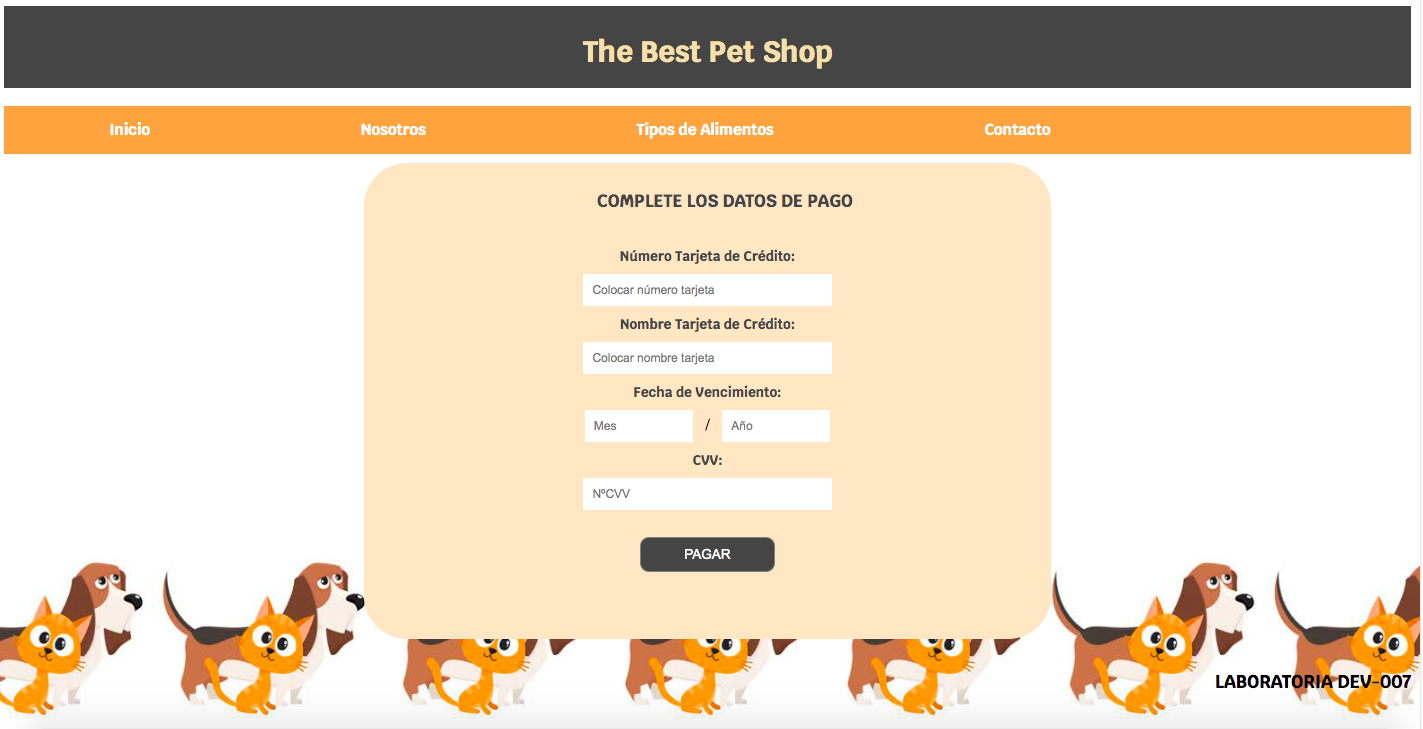
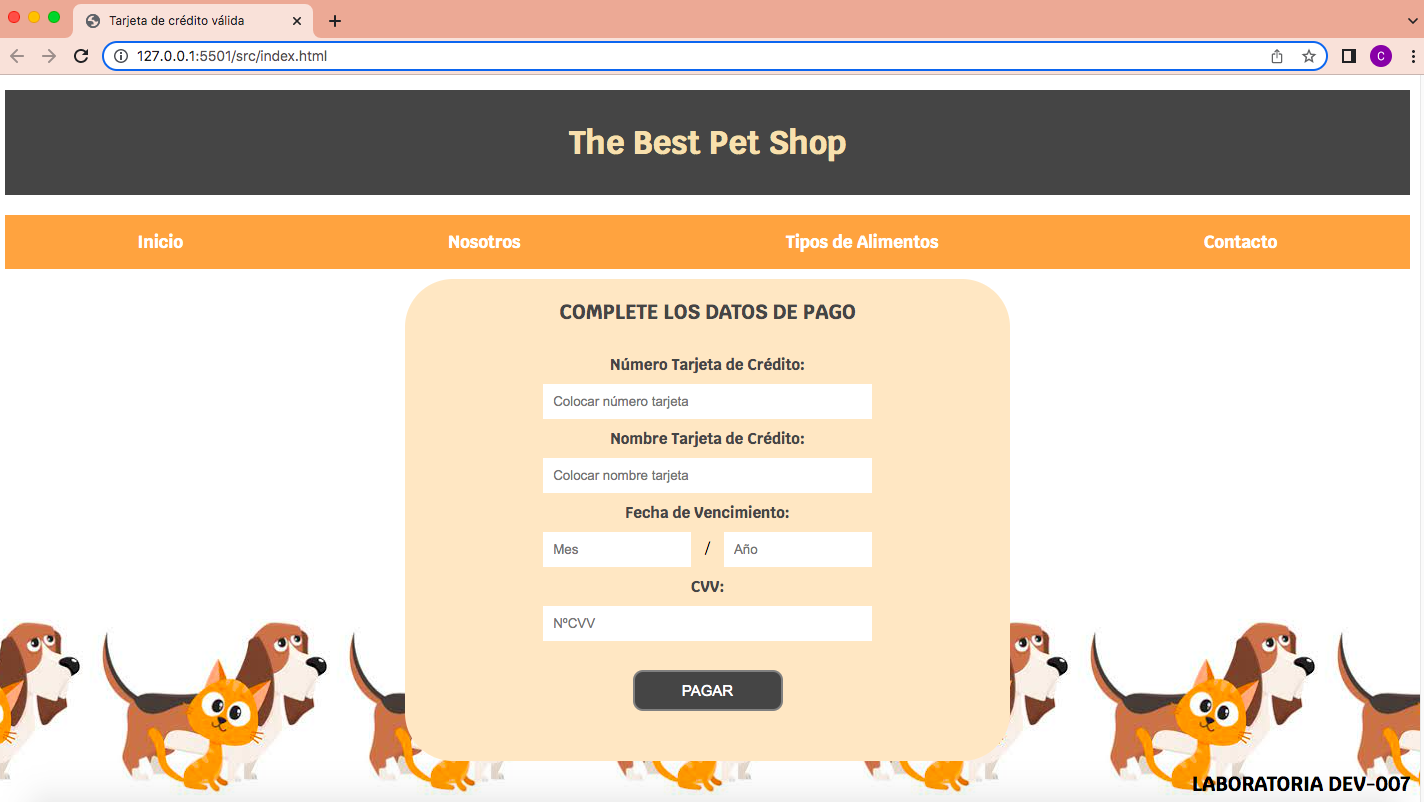
arreglos

diff --git a/src/style.css b/src/style.css
@@ -2,7 +2,7 @@ body {
     background-color: white;
     font-family: 'Krub', sans-serif;
     margin: 10px;
-    padding-bottom: 30px;
+    /*padding-bottom: 30px;*/
 }
 
 .fondo{
@@ -17,8 +17,8 @@ h1 {
     font-size: 2rem;
     color: wheat;
     background-color: #454545;
-    /*border: 2px solid black;*/
-    padding: 30px 50px 20px 50px;
+    border: 2px solid #454545;
+    padding: 30px 50px;
     margin: 20px 0;
 }
 
@@ -30,23 +30,17 @@ button {
     font-size: 15px;
     padding: 10px 30px;
     width: 150px;
-    text-transform: uppercase;
+    text-transform: uppercase; /*Texto en mayúscula*/
     text-align: center;
     cursor: pointer;
 
 }
 
-button:hover {
+button:hover {                 /*Pseudoclase*/
     background-color: transparent;
     border: 2px solid gray;
     color: #454545;
     
-}
-
-img{
-    width: 100px;
-    padding: 10px 10px;
-    border: 1px;
 }
 
 footer{
@@ -61,7 +55,7 @@ footer{
     background-color: #FFA559;
 }
 
-.navegador a {
+.navegador a {               /*Selec, descendientes*/
     color: #ffffff;
     text-decoration: none;  /*Elimina linea subrayada*/
     font-weight: bold;
@@ -77,25 +71,23 @@ footer{
 
 fieldset{
     border: none;
-    padding: 20px;  /*separación con num tarj*/
+    padding: 30px; /*separación con num tarj*/
+    text-align: center;
 }
 
 .formulario {
     font-size: 15px;
     background-color: #FFE6C7;
-    margin: 10px 500px 10px 500px;
-    text-align: center;
-    padding: 30px 40px;
+    margin: 10px 400px;
+    padding: 20px 50px;
     border-radius: 3rem;
 }
 
 .leyenda{
-    font-size: 1.2rem;
+    font-size: 20px;
     font-weight: bold;
     text-transform: uppercase;   /*letras mayusculas*/
     color: #454545;
-    margin: 1.2rem;
-    text-align: center;
 }
 
 label{
@@ -103,19 +95,19 @@ label{
     font-weight: bold;
 }
 
-.campos input{
+.campos input{      /*Selec, descendiente*/
     border: none;
     padding: 10px;
     margin: 10px;
-    width: 60%;
+    width: 70%;
 }
 
 #fecha-mes{
-    width: 105px;
+    width: 29%;
 }
 
 #fecha-año{
-    width: 105px;
+    width: 29%;
 }
 
 input[type=number]::-webkit-inner-spin-button,   /*quitar la flecha de los input*/

diff --git a/src/index.html b/src/index.html
@@ -15,23 +15,20 @@
       <h1>The Best Pet Shop</h1>
     </header>
 
-      <div class="nav-bg">
-        <nav class="navegador contenedor">
+        <nav class="navegador">
           <a href="#">Inicio</a>
           <a href="#">Nosotros</a>
           <a href="#">Tipos de Alimentos</a>
           <a href="#">Contacto</a>
         </nav>
-      </div>
   
     <main>
   
       <form class="formulario">
   
         <fieldset>
-              <legend class="leyenda">Complete los Datos de Pago</legend>
+          <legend class="leyenda">Complete los Datos de Pago</legend>
   
-          <div class="contenedor-campos">
             <section class="campos">
               <label for="numTarjeta"> Número Tarjeta de Crédito:</label><br>
               <input type="number" id="numTarjeta" name="numTarjeta" onkeypress="if (this.value.length > 15) return false" placeholder="Colocar número tarjeta" required>
@@ -53,20 +50,14 @@
               <input type="number" id="codigocvv" name="codigocvv" onkeypress="if (this.value.length > 2) return false" placeholder="NºCVV" ><br>
               <br>
             </section>
-          </div>
-  
-          <section class="alinear">
-            <button class="boton" type="submit" id="pago" >Pagar</button>
-          </section>
+
+            <section class="alinear">
+              <button class="boton" type="submit" id="pago" >Pagar</button>
+            </section>
 
         </fieldset>
-  
-            <section>
-              <img class="img-form" src="#" alt="">
-            </section>
-  
+
       </form>
-      <img class="animales" src="#" alt="">
   
     </main>
   

diff --git a/src/index.js b/src/index.js
@@ -9,7 +9,7 @@ function obtenerNumeroTarjeta(e) {
   const numeroIngresado = document.getElementById("numTarjeta").value;    //Obtener el valor del input donde el usuario ingresa el número de tarjeta.
   
   if (numeroIngresado.trim() === '') {                       //Validar que el input no este vacio. 
-    alert("Ingrese un número de tarjeta de crédito");   //Trim() elimina espacios en blanco y compara el resultado con una cadena vacía ('') usando (===).
+    alert("Ingrese un número de tarjeta de crédito");        //Trim() elimina espacios en blanco y compara el resultado con una cadena vacía ('') usando (===).
     return;                                                     
 
   }
